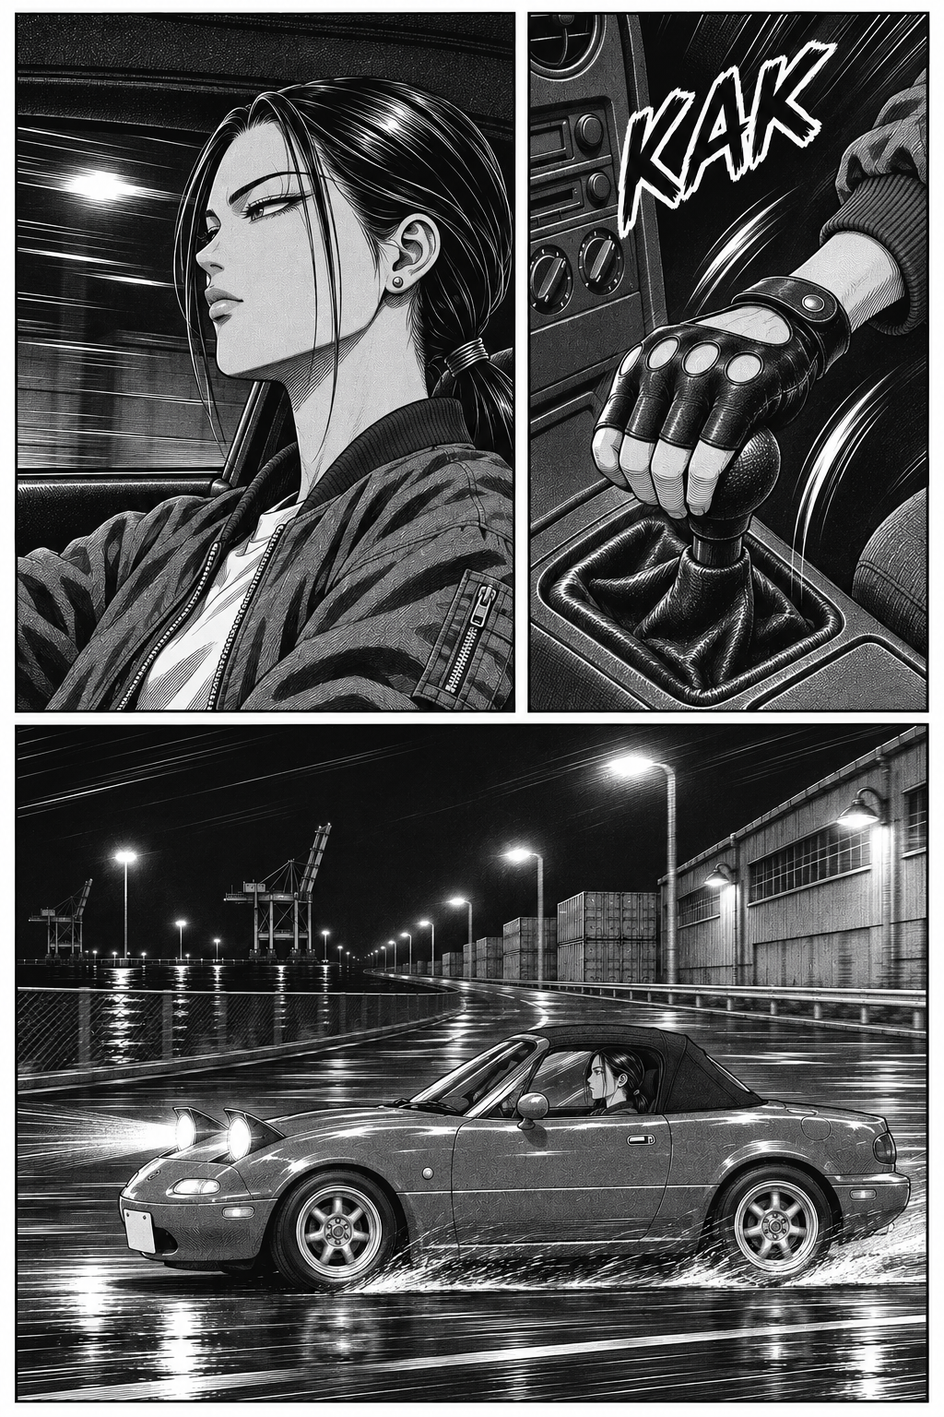
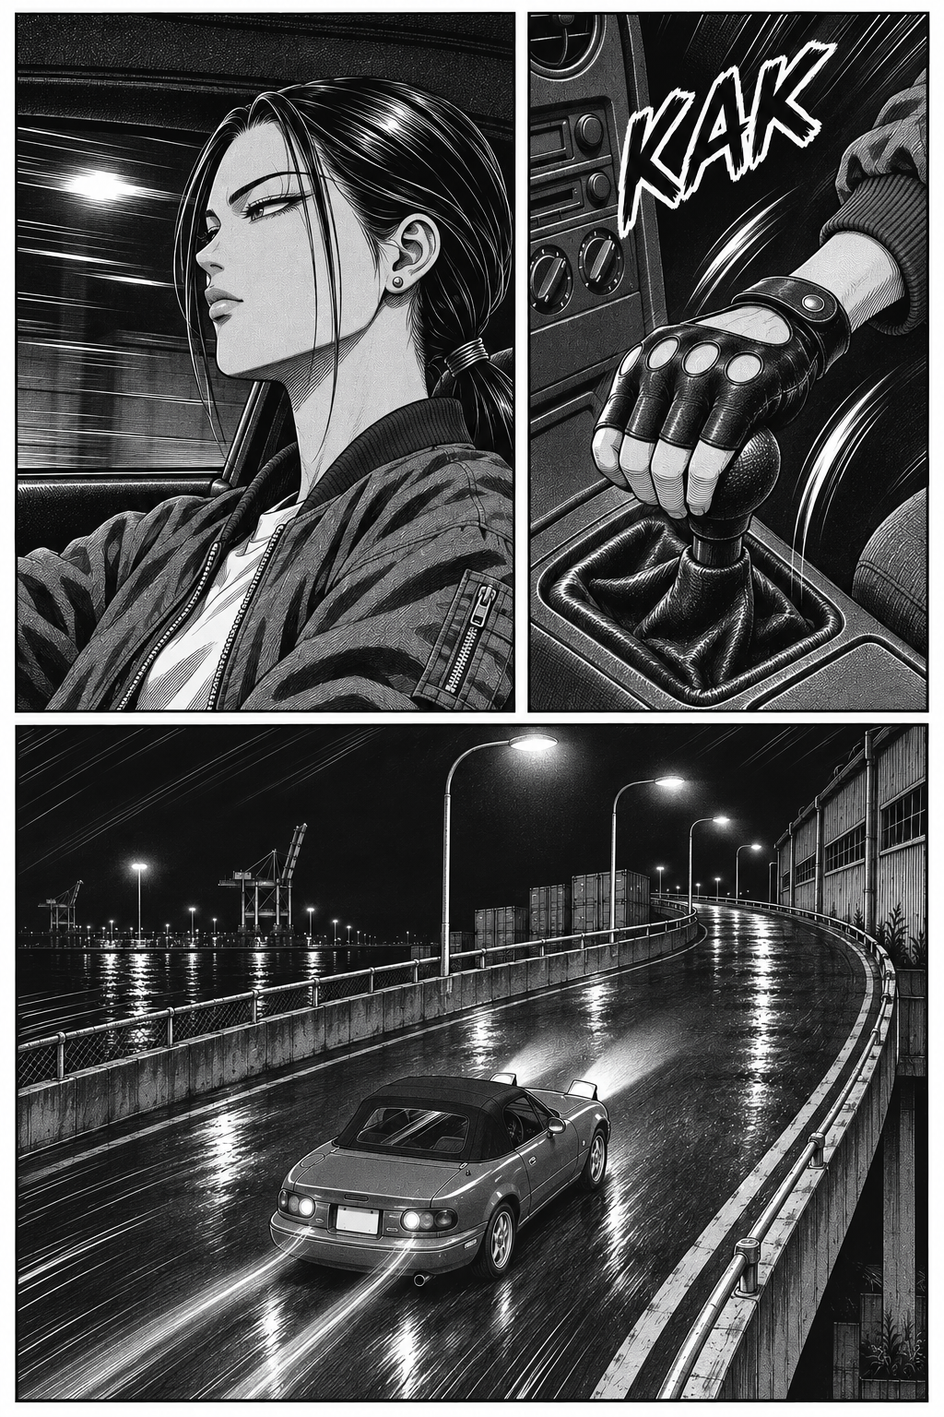
Ch3: redraw the copied car side view on p15, p18 and p26
The model had pasted the car sheet's flat side view into three panels
(and passed it on via continue_from). Now:
- p18 splash: low angle from the outside of the curve, a real drift
  under the overpass (front three-quarter, driver's flank).
- p15 bottom: high rear three-quarter on the curving on-ramp.
- p26 bottom: close on Akane's half smile through the driver's window,
  front pointing RIGHT (corrected rule).
p15/p26 are bottom-panel edits pasted into the approved pages.

Pipeline: angle-specific car-sheet crops (cast `views`), per-car
`view:` and `camera:`, `keep: true` panels for edits, and lint/builder
warnings for car shots without a camera angle or with a car page as a
reference. Art rule added to prompts/art-direction.md.

Changed region(s): [[0.0, 0.5, 1.0, 1.0], [0.8125, 0.5, 0.8438, 0.5312], [0.375, 0.5, 0.4062, 0.5312]]

diff --git a/production/aztools/build.py b/production/aztools/build.py
@@ -5,7 +5,7 @@ import re
 from dataclasses import dataclass, field
 from pathlib import Path
 
-from .spec import PROD, REPO, Page, Panel, Registry, Spec, art_path
+from .spec import PROD, REPO, Page, Panel, Registry, Spec, art_path, car_shot_ref_pages, is_exterior_car
 
 TEMPLATE = PROD / "templates" / "prompt.md"
 
@@ -123,6 +123,8 @@ class Builder:
 
         seen = []
         for pn in page.panels:
+            if pn.keep and page.edit:
+                continue
             for c in pn.cast:
                 k = (c.id, c.outfit)
                 if k in seen:
@@ -138,7 +140,13 @@ class Builder:
                     index.setdefault(c.id, index[f"{c.id}:{okey}"])
                 elif c.id in self.reg.cars:
                     car = self.reg.cars[c.id]
-                    add(car["ref"], f"car sheet for {car['name']}: match its body, wheels and details exactly", c.id)
+                    view = car.get("views", {}).get(c.view) if c.view else None
+                    if view:
+                        add(view["ref"], f"car sheet for {car['name']} ({view['note']}): match its body, wheels and "
+                            "details exactly, but NOT its pose: draw the car from the camera angle the panel gives", c.id)
+                    else:
+                        add(car["ref"], f"car sheet for {car['name']}: match its body, wheels and details exactly, "
+                            "but do NOT copy any pose from it: draw the car from the camera angle each panel gives", c.id)
 
         loc = self.reg.locations.get(page.location) if page.location else None
         if page.kind != "plate":
@@ -184,6 +192,9 @@ class Builder:
     def panel_text(self, page: Page, pn: Panel, empty: bool) -> str:
         head = f"PANEL {pn.index} ({humanize_pos(pn.pos)}"
         head += f"; {pn.shot})" if pn.shot else ")"
+        if pn.keep and page.edit:
+            return (f"{head}: KEEP UNCHANGED, exactly as in reference 1 (same drawing, people, balloons and SFX)."
+                    + (f" {pn.action}" if pn.action else ""))
         lines = [f"{head}: {pn.action}".rstrip()]
         if pn.location and pn.location != page.location:
             lo = self.reg.locations[pn.location]
@@ -214,6 +225,9 @@ class Builder:
                 bits.append(c.note)
             one = car["name"].removeprefix("the ")
             lines.append(f"  Car: {', '.join(bits)}. Only one {one} in this panel.")
+            if c.camera:
+                lines.append(f"  Camera on the car: {c.camera}. Draw the car from exactly this angle; do NOT copy "
+                             "its pose from the car sheet or from any reference page.")
         for n in pn.notes:
             lines.append(f"  Note: {n}")
 
@@ -304,6 +318,8 @@ class Builder:
         done = set()
         car_ids = []
         for pn in page.panels:
+            if pn.keep and page.edit:
+                continue
             for c in pn.cast:
                 if c.id in self.reg.characters:
                     okey, desc, _, _ = self._outfit(c.id, c.outfit)
@@ -337,6 +353,13 @@ class Builder:
         if page.driver_hidden:
             rules.append("The Roadster's driver is NEVER recognizable: the cabin is in deep shadow or behind windshield glare; at most gloved hands and a dark silhouette. Do NOT put Dai or any recognizable face in the driver's seat.")
         rules.append("Draw people and vehicles only where a panel lists them; do not copy people or vehicles from the location references.")
+        if any(is_exterior_car(c, self.reg) for pn in page.panels for c in pn.cast):
+            rules.append("Car poses: every car shot uses the camera angle written in its panel. Never paste a car's pose "
+                         "or angle from a reference image (car sheet or earlier page), and never repeat the same car pose "
+                         "twice on the page.")
+        for other in car_shot_ref_pages(page, spec, self.reg):
+            warnings.append(f"reference {other.label} also shows the car from outside: the model tends to copy that pose "
+                            "(use a location plate or an interior page instead)")
         if page.continue_from and "continue" in idx:
             rules.append(f"This page continues the scene of reference {idx['continue']}: the camera stays on the SAME side as its last panel, with the same lighting and setting.")
         if loc:

diff --git a/production/aztools/spec.py b/production/aztools/spec.py
@@ -60,6 +60,13 @@ class CastRef:
     facing: str | None = None
     note: str | None = None
     hidden: bool = False
+    view: str | None = None  # cars: key in the car's `views` (angle-specific sheet crop)
+    camera: str | None = None  # cars: the explicit camera angle for this car shot
+
+
+def is_exterior_car(c: "CastRef", reg: "Registry") -> bool:
+    """A car seen from outside (not an 'interior only' cast entry)."""
+    return c.id in reg.cars and "interior" not in (c.note or "").lower()
 
 
 @dataclass
@@ -74,6 +81,7 @@ class Panel:
     sfx: list[Line]
     notes: list[str] = field(default_factory=list)
     location: str | None = None  # overrides the page location for this panel
+    keep: bool = False  # edit pages: this panel stays as it is (no cast refs, short prompt line)
 
 
 @dataclass
@@ -162,6 +170,8 @@ def _cast_ref(item) -> CastRef:
             facing=item.get("facing"),
             note=item.get("note"),
             hidden=bool(item.get("hidden", False)),
+            view=item.get("view"),
+            camera=item.get("camera"),
         )
     raise SpecError(f"bad cast entry: {item!r}")
 
@@ -249,6 +259,7 @@ def load_spec(path: Path, reg: Registry | None = None) -> Spec:
                 sfx=[_plain(s, "sfx") for s in _as_list(rp.get("sfx"))],
                 notes=[str(n) for n in _as_list(rp.get("notes"))],
                 location=rp.get("location"),
+                keep=bool(rp.get("keep", False)),
             ))
         refs = []
         for r in _as_list(raw.get("refs")):
@@ -330,6 +341,12 @@ def lint(spec: Spec, reg: Registry) -> list[str]:
                         out.append(f"WARN {pw}: outfit '{c.outfit}' not in cast.yaml for {c.id} (used as free text)")
                 elif c.id not in reg.cars:
                     out.append(f"ERROR {pw}: unknown cast id '{c.id}'")
+                else:
+                    views = reg.cars[c.id].get("views", {})
+                    if c.view and c.view not in views:
+                        out.append(f"ERROR {pw}: car view '{c.view}' not in cast.yaml for {c.id} (have: {', '.join(views) or 'none'})")
+                    if is_exterior_car(c, reg) and not c.camera and not pg.edit:
+                        out.append(f"WARN {pw}: exterior shot of {c.id} without `camera:` (the model copies the car sheet's pose; give every car shot its own angle)")
             speakers = []
             for d in pn.dialogue:
                 if d.speaker not in reg.characters and d.speaker != "unknown":
@@ -341,7 +358,31 @@ def lint(spec: Spec, reg: Registry) -> list[str]:
             people = [i for i in ids if i in reg.characters]
             if len(speakers) > 1 and len(set(people) & set(speakers)) > 1:
                 out.append(f"WARN {pw}: two on-panel speakers ({', '.join(speakers)}): speaker-swap risk, consider splitting")
+        for ref_page in car_shot_ref_pages(pg, spec, reg):
+            out.append(f"WARN {w}: has an exterior car shot and passes {ref_page.label} as a reference, which also has one "
+                       f"(the model copies the car pose); use a location plate or an interior page instead")
     return out
+
+
+def car_shot_ref_pages(pg: Page, spec: Spec, reg: Registry) -> list[Page]:
+    """Pages of this spec passed as references (continue_from / refs) that also show a car from outside,
+    when this page shows one too. Edit sources (the page itself) don't count."""
+    def exterior(p: Page) -> bool:
+        return any(is_exterior_car(c, reg) for pn in p.panels for c in pn.cast)
+
+    if pg.kind != "page" or not exterior(pg):
+        return []
+    hits = []
+    if pg.continue_from:
+        prev = spec.page_by_number(pg.continue_from)
+        if prev and prev is not pg:
+            hits.append(prev)
+    for r in pg.refs:
+        rp = (REPO / r["path"]).resolve()
+        for other in spec.pages:
+            if other is not pg and rp in (other.output.resolve(), art_path(other).resolve()):
+                hits.append(other)
+    return [h for h in hits if exterior(h)]
 
 
 def rel(p: Path) -> str:

diff --git a/artwork/PROVENANCE.md b/artwork/PROVENANCE.md
@@ -50,18 +50,21 @@ Rows appended by `production/az run` (full prompts and refs: `production/logs/pr
 | pages/chapter-003/page-13.png | 2026-11-15 | character-sheets/akane.png, car-sheets/red-roadster.png, locations/roadster-interior-night.png, locations/harbor-station-night.png, pages/chapter-003/page-12.png | approved | runner: 1 image_gen call(s), empty lettering; nit: wet road with tire spray on a dry night |
 | pages/chapter-003/page-22.png | 2026-11-15 | character-sheets/akane.png, car-sheets/red-roadster.png, character-sheets/dai-uniform.png, locations/roadster-interior-night.png, pages/chapter-002/page-25.png | approved | runner: 1 image_gen call(s), empty lettering; nit: Dai has no cap in P3 |
 | pages/chapter-003/page-24.png | 2026-11-15 | character-sheets/akane.png, car-sheets/red-roadster.png, character-sheets/dai-uniform.png, locations/roadster-interior-night.png, pages/chapter-003/page-23.png | approved | runner: 2 image_gen call(s), empty lettering |
-| pages/chapter-003/page-26.png | 2026-11-15 | car-sheets/red-roadster.png, character-sheets/dai-uniform.png, character-sheets/akane.png, character-sheets/kubo.png, locations/harbor-station-night.png | approved | runner: 2 image_gen call(s), empty lettering; nit: unscripted VROOM SFX |
+| pages/chapter-003/page-26.png | 2026-11-15 | car-sheets/red-roadster.png, character-sheets/dai-uniform.png, character-sheets/akane.png, character-sheets/kubo.png, locations/harbor-station-night.png | superseded 2026-11-15 (copied the car sheet's side view, redrawn) | runner: 2 image_gen call(s), empty lettering; nit: unscripted VROOM SFX |
 | pages/chapter-003/page-08.png | 2026-11-15 | character-sheets/akane.png, car-sheets/red-roadster.png, character-sheets/dai-uniform.png, locations/harbor-station-night.png, pages/chapter-003/page-07.png | approved | runner: 2 image_gen call(s), empty lettering; nit: close-ups through the window show the car's front pointing RIGHT (p07 points left) |
 | pages/chapter-003/page-14.png | 2026-11-15 | character-sheets/akane.png, car-sheets/red-roadster.png, character-sheets/dai-uniform.png, locations/roadster-interior-night.png, pages/chapter-003/page-13.png | approved | runner: 2 image_gen call(s), empty lettering; nit: wet road |
 | pages/chapter-003/page-25.png | 2026-11-15 | car-sheets/red-roadster.png, character-sheets/akane.png, character-sheets/dai-uniform.png, locations/harbor-pier-lot-night.png, pages/chapter-003/page-24.png | approved | runner: 1 image_gen call(s), empty lettering; nits: taillights glow with the engine off; Dai not visible beside Akane in P2; wet lot |
 | pages/chapter-003/page-28.png | 2026-11-15 | character-sheets/dai-uniform.png, character-sheets/sota.png, locations/hayama-apartment.png, pages/chapter-003/page-05.png | approved | runner: 2 image_gen call(s), empty lettering; nits: unscripted SHIFT / HEEL TOE labels; Dai wears sneakers on the futon; P2/P3 lettered in painted balloons (draw: true) |
 | pages/chapter-003/page-09.png | 2026-11-15 | character-sheets/dai-uniform.png, car-sheets/red-roadster.png, character-sheets/akane.png, locations/harbor-station-night.png, pages/chapter-003/page-08.png | approved | runner: 2 image_gen call(s), empty lettering; nit: wet forecourt (wet plate) |
-| pages/chapter-003/page-15.png | 2026-11-15 | character-sheets/akane.png, car-sheets/red-roadster.png, locations/roadster-interior-night.png, locations/harbor-road-night.png, pages/chapter-003/page-14.png | approved | runner: 1 image_gen call(s), empty lettering; nit: wet road with spray |
+| pages/chapter-003/page-15.png | 2026-11-15 | character-sheets/akane.png, car-sheets/red-roadster.png, locations/roadster-interior-night.png, locations/harbor-road-night.png, pages/chapter-003/page-14.png | superseded 2026-11-15 (copied the car sheet's side view, redrawn) | runner: 1 image_gen call(s), empty lettering; nit: wet road with spray |
 | pages/chapter-003/page-10.png | 2026-11-15 | character-sheets/akane.png, character-sheets/dai-uniform.png, character-sheets/kubo.png, locations/harbor-station-night.png, pages/chapter-003/page-09.png | approved | runner: 1 image_gen call(s), empty lettering; nit: wet forecourt |
 | pages/chapter-003/page-16.png | 2026-11-15 | car-sheets/red-roadster.png, character-sheets/dai-uniform.png, locations/roadster-interior-night.png, locations/bypass-overpass-night.png, pages/chapter-003/page-15.png | rejected: driver's seat empty in P1 (edit queued) | runner: 1 image_gen call(s), empty lettering |
-| pages/chapter-003/page-18.png | 2026-11-15 | car-sheets/red-roadster.png, locations/bypass-overpass-night.png, pages/chapter-003/page-15.png | approved | runner: 1 image_gen call(s), empty lettering; nits: wet road with spray; car sits in front of the overpass rather than under it |
+| pages/chapter-003/page-18.png | 2026-11-15 | car-sheets/red-roadster.png, locations/bypass-overpass-night.png, pages/chapter-003/page-15.png | superseded 2026-11-15 (copied the car sheet's side view, redrawn) | runner: 1 image_gen call(s), empty lettering; nits: wet road with spray; car sits in front of the overpass rather than under it |
 | pages/chapter-003/page-11.png | 2026-11-15 | character-sheets/akane.png, car-sheets/red-roadster.png, character-sheets/dai-uniform.png, locations/harbor-station-night.png, pages/chapter-003/page-10.png | approved | runner: 2 image_gen call(s), empty lettering; nit: wet forecourt |
 | pages/chapter-003/page-17.png | 2026-11-15 | character-sheets/akane.png, car-sheets/red-roadster.png, character-sheets/dai-uniform.png, locations/roadster-interior-night.png, pages/chapter-003/page-16.png | approved | runner: 2 image_gen call(s), empty lettering; heel-and-toe reads mostly through the BWAP SFX |
 | pages/chapter-003/page-19.png | 2026-11-15 | car-sheets/red-roadster.png, character-sheets/dai-uniform.png, locations/roadster-interior-night.png, locations/bypass-overpass-night.png, pages/chapter-003/page-17.png | rejected: driver's seat empty in P1 (edit queued) | runner: 1 image_gen call(s), empty lettering |
 | pages/chapter-003/page-20.png | 2026-11-15 | character-sheets/akane.png, car-sheets/red-roadster.png, character-sheets/dai-uniform.png, locations/roadster-interior-night.png, pages/chapter-003/page-19.png | approved | runner: 1 image_gen call(s), empty lettering |
 | pages/chapter-003/page-19.png | 2026-11-15 | pages/chapter-003/page-19.art.png, car-sheets/red-roadster.png, character-sheets/dai-uniform.png, locations/roadster-interior-night.png, locations/bypass-overpass-night.png | approved | runner: 1 image_gen call(s), empty lettering; edit: Akane's hands added on the wheel in P1 |
+| pages/chapter-003/page-18.png (+ .art.png) | 2026-11-15 | car-sheets/red-roadster-front34.png, locations/bypass-overpass-night.png, pages/chapter-003/page-16.png | approved | runner: 2 jobs, 1 image_gen call each; take 1 (front three-quarter, weak drift) replaced by take 2 (drift angle, countersteer, tire tracks); low angle from the outside of the curve, right (driver) flank, nose to the lower right; wet road as on p17/p19 |
+| pages/chapter-003/page-15.png (+ .art.png) | 2026-11-15 | production/runs/edit-src/page-15.masked.png (the old art with the bottom panel blanked grey; not committed), car-sheets/red-roadster-rear.png, locations/harbor-road-night.png | approved | runner: 1 image_gen call, edit of the bottom panel only: high rear three-quarter on the curving on-ramp with taillight trails; the two top panels pasted back pixel-exact from the approved art |
+| pages/chapter-003/page-26.png (+ .art.png) | 2026-11-15 | production/runs/edit-src/page-26.masked.png (the old art with the bottom panel blanked grey; not committed), character-sheets/akane.png, car-sheets/red-roadster-front34.png, locations/harbor-station-night.png | approved | runner: 1 image_gen call, edit of the bottom panel only: close on Akane's half smile through the driver's window, car pulling away with its front to the RIGHT (corrected rule); the three top panels pasted back pixel-exact; re-lettered (28-29 px) |

diff --git a/reviews/chapter-003.md b/reviews/chapter-003.md
@@ -23,23 +23,39 @@ Every page was reviewed on its own, then in consecutive pairs for camera continu
   p14 and p25 dropped an extra location plate from one panel (the previous page covers it),
   p26 dropped `continue_from` and states the camera side in its notes instead.
 
+- **The same car picture four times** (reader complaint, 2026-11-15): p15's bottom panel, the
+  p18 splash and p26's bottom panel all showed one flat side view (front left, pop-ups up, spray
+  behind), copied from the car sheet's side view and passed on through `continue_from`. Redrawn:
+  - p15 bottom: high rear three-quarter from above, the car curving up the on-ramp to the upper
+    right with taillight trails (edit of that panel only; the top panels are the approved pixels).
+  - p18 splash: low angle from the outside of the curve, front three-quarter on the driver's
+    flank, a real drift (body angled to its path, front wheels countersteering, spray and tire
+    tracks), the overpass looming above. Second of two takes; the first had too little drift.
+  - p26 bottom: close beside the driver's door, Akane's half smile readable, the car pulling away
+    with its front to the RIGHT (corrected rule). The unscripted "VROOM" is gone.
+  New refs: angle-specific crops of the car sheet (`red-roadster-front34.png`, `-rear.png`,
+  `-interior.png`); none of the jobs got a page with an exterior car shot. Checked against the
+  neighbours: p18 is wet like p17/p19, and no two exterior car shots in the chapter share a pose
+  (closest pair: p15 and p21 P1 both drive away toward the upper right, but from high above on a
+  curved ramp vs. shoulder height on the pier lot).
+
 ## Lettering
 All lines placed in the right balloons, in right-to-left order, tails on the speaker. Type is
 24-29 px everywhere except p28's end caption (18 px, `style: small` on purpose).
 
 ## Kept nits
-- **Wet pavement on a dry night** (p06, p08-p11, p13-p15, p18, p21, p25, p26): all three night
+- **Wet pavement on a dry night** (p06, p08-p11, p13-p15, p18, p21, p25, p26 P1): all three night
   location plates (station, harbor road, pier lot) are drawn wet, so the pages copy it. p07 is dry.
   Redraw the plates dry before the next dry-night scene.
 - p02: the walk home looks like midday, the script says dawn.
 - p04, p05, p28: night outside the window in morning scenes.
 - p05: Michiko kneels on the tatami with sneakers on; p28: Dai wears sneakers on his futon.
-- p06: unscripted "SCRUB SCRUB SCRUB" SFX. p26: unscripted "VROOM". p28: unscripted "SHIFT" / "HEEL TOE" labels.
+- p06: unscripted "SCRUB SCRUB SCRUB" SFX. p28: unscripted "SHIFT" / "HEEL TOE" labels.
 - p08, p10, p11: close-ups through the driver's window show the car's front pointing RIGHT,
   while p07/p09 side views point LEFT (see the note below).
 - p12: Dai wears a small earring in the middle-left panel.
 - p17: the heel-and-toe reads mostly through the BWAP SFX.
-- p18: the car is in front of the overpass rather than right under it.
+- p18: the car has just come out from under the overpass rather than being right under it.
 - p22: Dai has no cap in P3.
 - p23: P1 is a front view drawn so that Akane still reads on the RIGHT; the sea shows through
   the back window although the car faces it.

diff --git a/prompts/art-direction.md b/prompts/art-direction.md
@@ -25,6 +25,7 @@
 - **Approved neighbour pages make good references.** For scenes that span pages (e.g. ch2 p20-27), pass an approved page from the same scene so lighting, faces and setting carry over.
 - **Right-hand drive in side views.** "Right-hand drive" alone doesn't stick. In a side view with the driver at the near window, state the direction: the car's FRONT points to the RIGHT edge of the panel (so we see its right/driver side, like a face turned right shows its right cheek). Front pointing LEFT shows the passenger (left) side, with the driver on the far side. Corrected 2026-11-15: chapters 1-3 used the reversed rule, so some of their side views show a mirror-image car; accepted, don't redraw.
 - **Keep the camera on one side across pages (180-degree rule).** Each page is drawn in isolation, so the model may jump to the opposite end of a car or room between pages, which reads as the car "turning around". When a scene continues, pass the previous page as a reference and say "seen from the SAME side as the previous page's last panel". Review consecutive pages side by side, not only one at a time.
+- **The model copies car poses from its references.** Given the full car sheet, it pastes the sheet's flat side view; given a previous page with a car shot, it pastes that car again, so one copy snowballs through a chapter (ch3 p15, p18 and p26 had the same side view, front left, pop-ups up, spray behind). So: give every exterior car shot an explicit, different camera angle (`camera:` on the car's cast entry: height, side, which flank, where the nose points); attach an angle-specific crop of the car sheet instead of the whole sheet (`view: front34`, `rear`, `interior` in `production/cast.yaml`); and never pass a page that contains a similar car shot as a reference: use the location plate and approved interior pages for continuity. To redraw one panel, blank it to flat grey in a copy of the page and use that copy as the edit source, then paste the new panel back into the approved page. `production/az lint` warns about car shots without `camera:` and about car pages that pass another car page as a reference. Before approving, check that no two car shots in a chapter share a pose.
 - **Vary shot sizes; keep the protagonist in key beats.** Don't repeat the same flat side view panel after panel. Emotional beats want close-ups and over-the-shoulder shots that keep Dai in frame.
 
 ## Production tools

diff --git a/production/README.md b/production/README.md
@@ -65,6 +65,7 @@ pages:
         cast:               # only these people/cars are in the panel
           - dai:station     # id[:outfit]
           - {id: roadster, state: headlights_down, facing: left}
+          - {id: roadster, view: rear, camera: "high rear three-quarter from above, right flank"}   # angle crop + explicit angle
           - {id: akane, hidden: true, note: "only her gloved fingers"}
         dialogue:           # each line tied to ONE speaker, in reading order
           - dai: "ARE YOU HIRING?"
@@ -81,6 +82,7 @@ pages:
       keep: "the KA-CHAK headlight panel and all dialogue"
       # source: defaults to the current page file (attached as reference 1)
     panels: [...]           # still describe the page; the edit text says what to change
+                            # `keep: true` on a panel: "keep unchanged", and its cast adds no refs
 ```
 
 Plates (`plates.yaml`) use `id:` instead of `page:`, `kind: plate`, a `location` and a `description`.
@@ -96,6 +98,13 @@ Plates (`plates.yaml`) use `id:` instead of `page:`, `kind: plate`, a `location`
 - A self-check list the codex agent must go through before saving (faces, speakers, car side, empty balloons); it may redraw once (`--attempts`).
 - Warnings: missing plate (falls back to a source page that contains people/cars), more than 5 refs (image_gen rejects the call), missing files.
 - `lint` warns about panels with two on-panel speakers (speaker-swap risk).
+- Car shots: a car's `view:` attaches that angle-specific crop of its sheet (`views` in `cast.yaml`)
+  instead of the whole sheet; `camera:` adds "draw the car from exactly this angle, do not copy its pose".
+  The model copies car poses from references, so `lint` and the builder warn about exterior car shots
+  without `camera:` and about car pages whose `continue_from`/`refs` page also shows the car from outside.
+- Redrawing one panel: copy the art, fill that panel with flat grey, use the copy as `edit.source`, mark the
+  other panels `keep: true`, run with `--no-letter`, paste the new panel back into the approved art at the
+  same gutter, then `letter` with the chapter spec (done for ch3 p15/p26, 2026-11-15).
 
 ## Runner
 

diff --git a/production/templates/prompt.md b/production/templates/prompt.md
@@ -86,6 +86,7 @@ RULES:
 
 ## self-check-roadster
 - The red Roadster is right-hand drive; in side views showing the driver, its FRONT points to the RIGHT edge of the panel. Only one Roadster per panel.
+- Every exterior shot of the car uses the camera angle its panel asks for, not a pose copied from the car sheet or a reference page.
 
 ## self-check-no-car
 - There is NO small roadster or sports car anywhere on the page.
